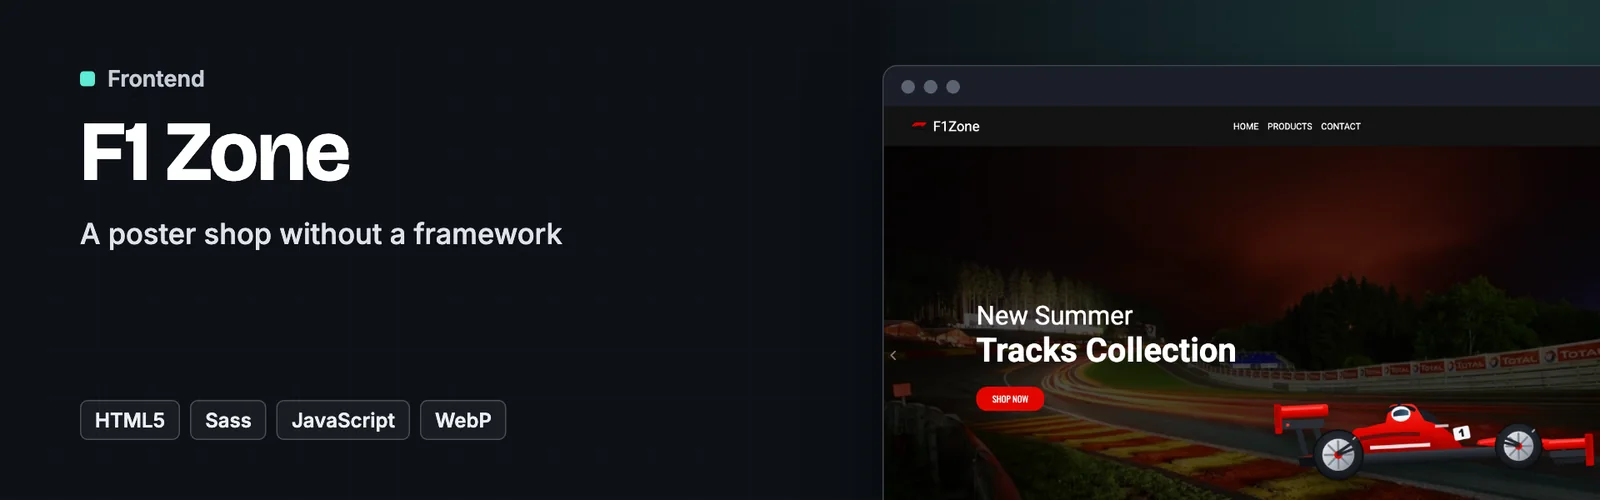
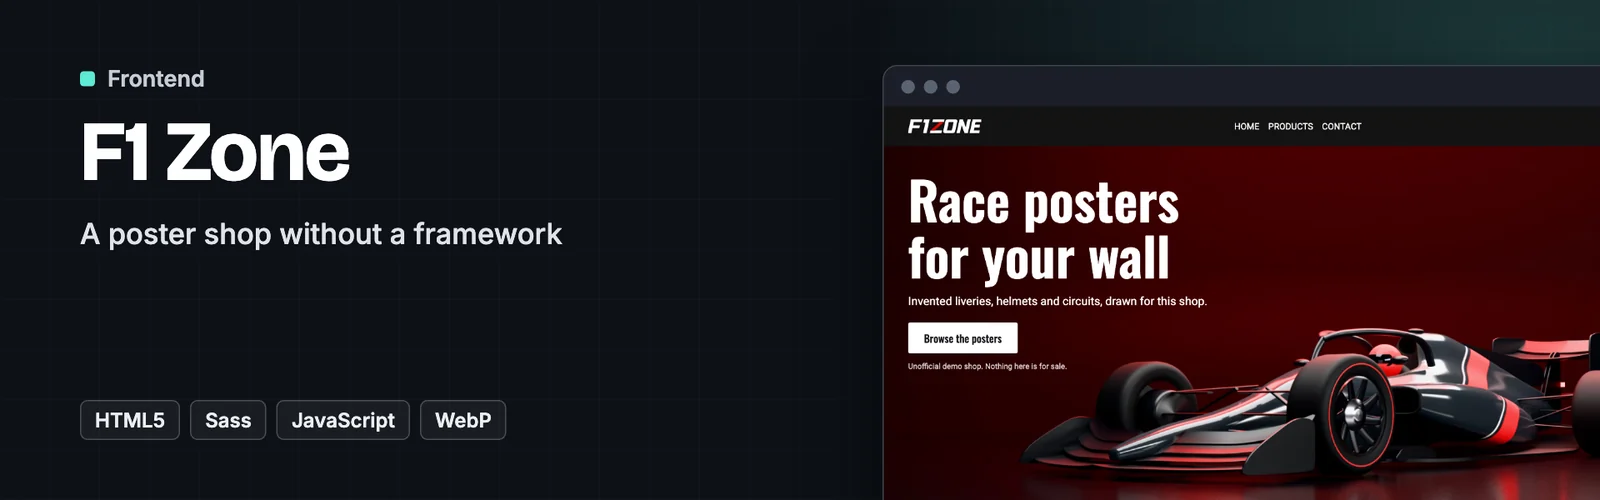
fix: restore the heading order and refresh the README images
Promote the collection headings to h2 now that the hero slide no longer
supplies one, and replace the banner and screenshots with live captures of
the new hero.

Changed region(s): [[0.5312, 0.24, 1.0, 1.0]]

diff --git a/index.html b/index.html
@@ -112,7 +112,7 @@
     <main id="main-content" tabindex="-1">
       <section class="collection">
         <div class="collection__tracks">
-          <h3 class="collection__heading">Tracks Collection</h3>
+          <h2 class="collection__heading">Tracks Collection</h2>
           <div class="collection__shadow">
             <img
               src="img/collections/tracks.webp"
@@ -125,7 +125,7 @@
           <a class="collection__btn" href="#cars_id">explore more</a>
         </div>
         <div class="collection__teams">
-          <h3 class="collection__heading">Liveries Collection</h3>
+          <h2 class="collection__heading">Liveries Collection</h2>
           <div class="collection__shadow">
             <img
               src="img/collections/liveries.webp"
@@ -138,7 +138,7 @@
           <a class="collection__btn" href="#cars_id">explore more</a>
         </div>
         <div class="collection__drivers">
-          <h3 class="collection__heading">Helmets Collection</h3>
+          <h2 class="collection__heading">Helmets Collection</h2>
           <div class="collection__shadow">
             <img
               src="img/collections/helmets.webp"
